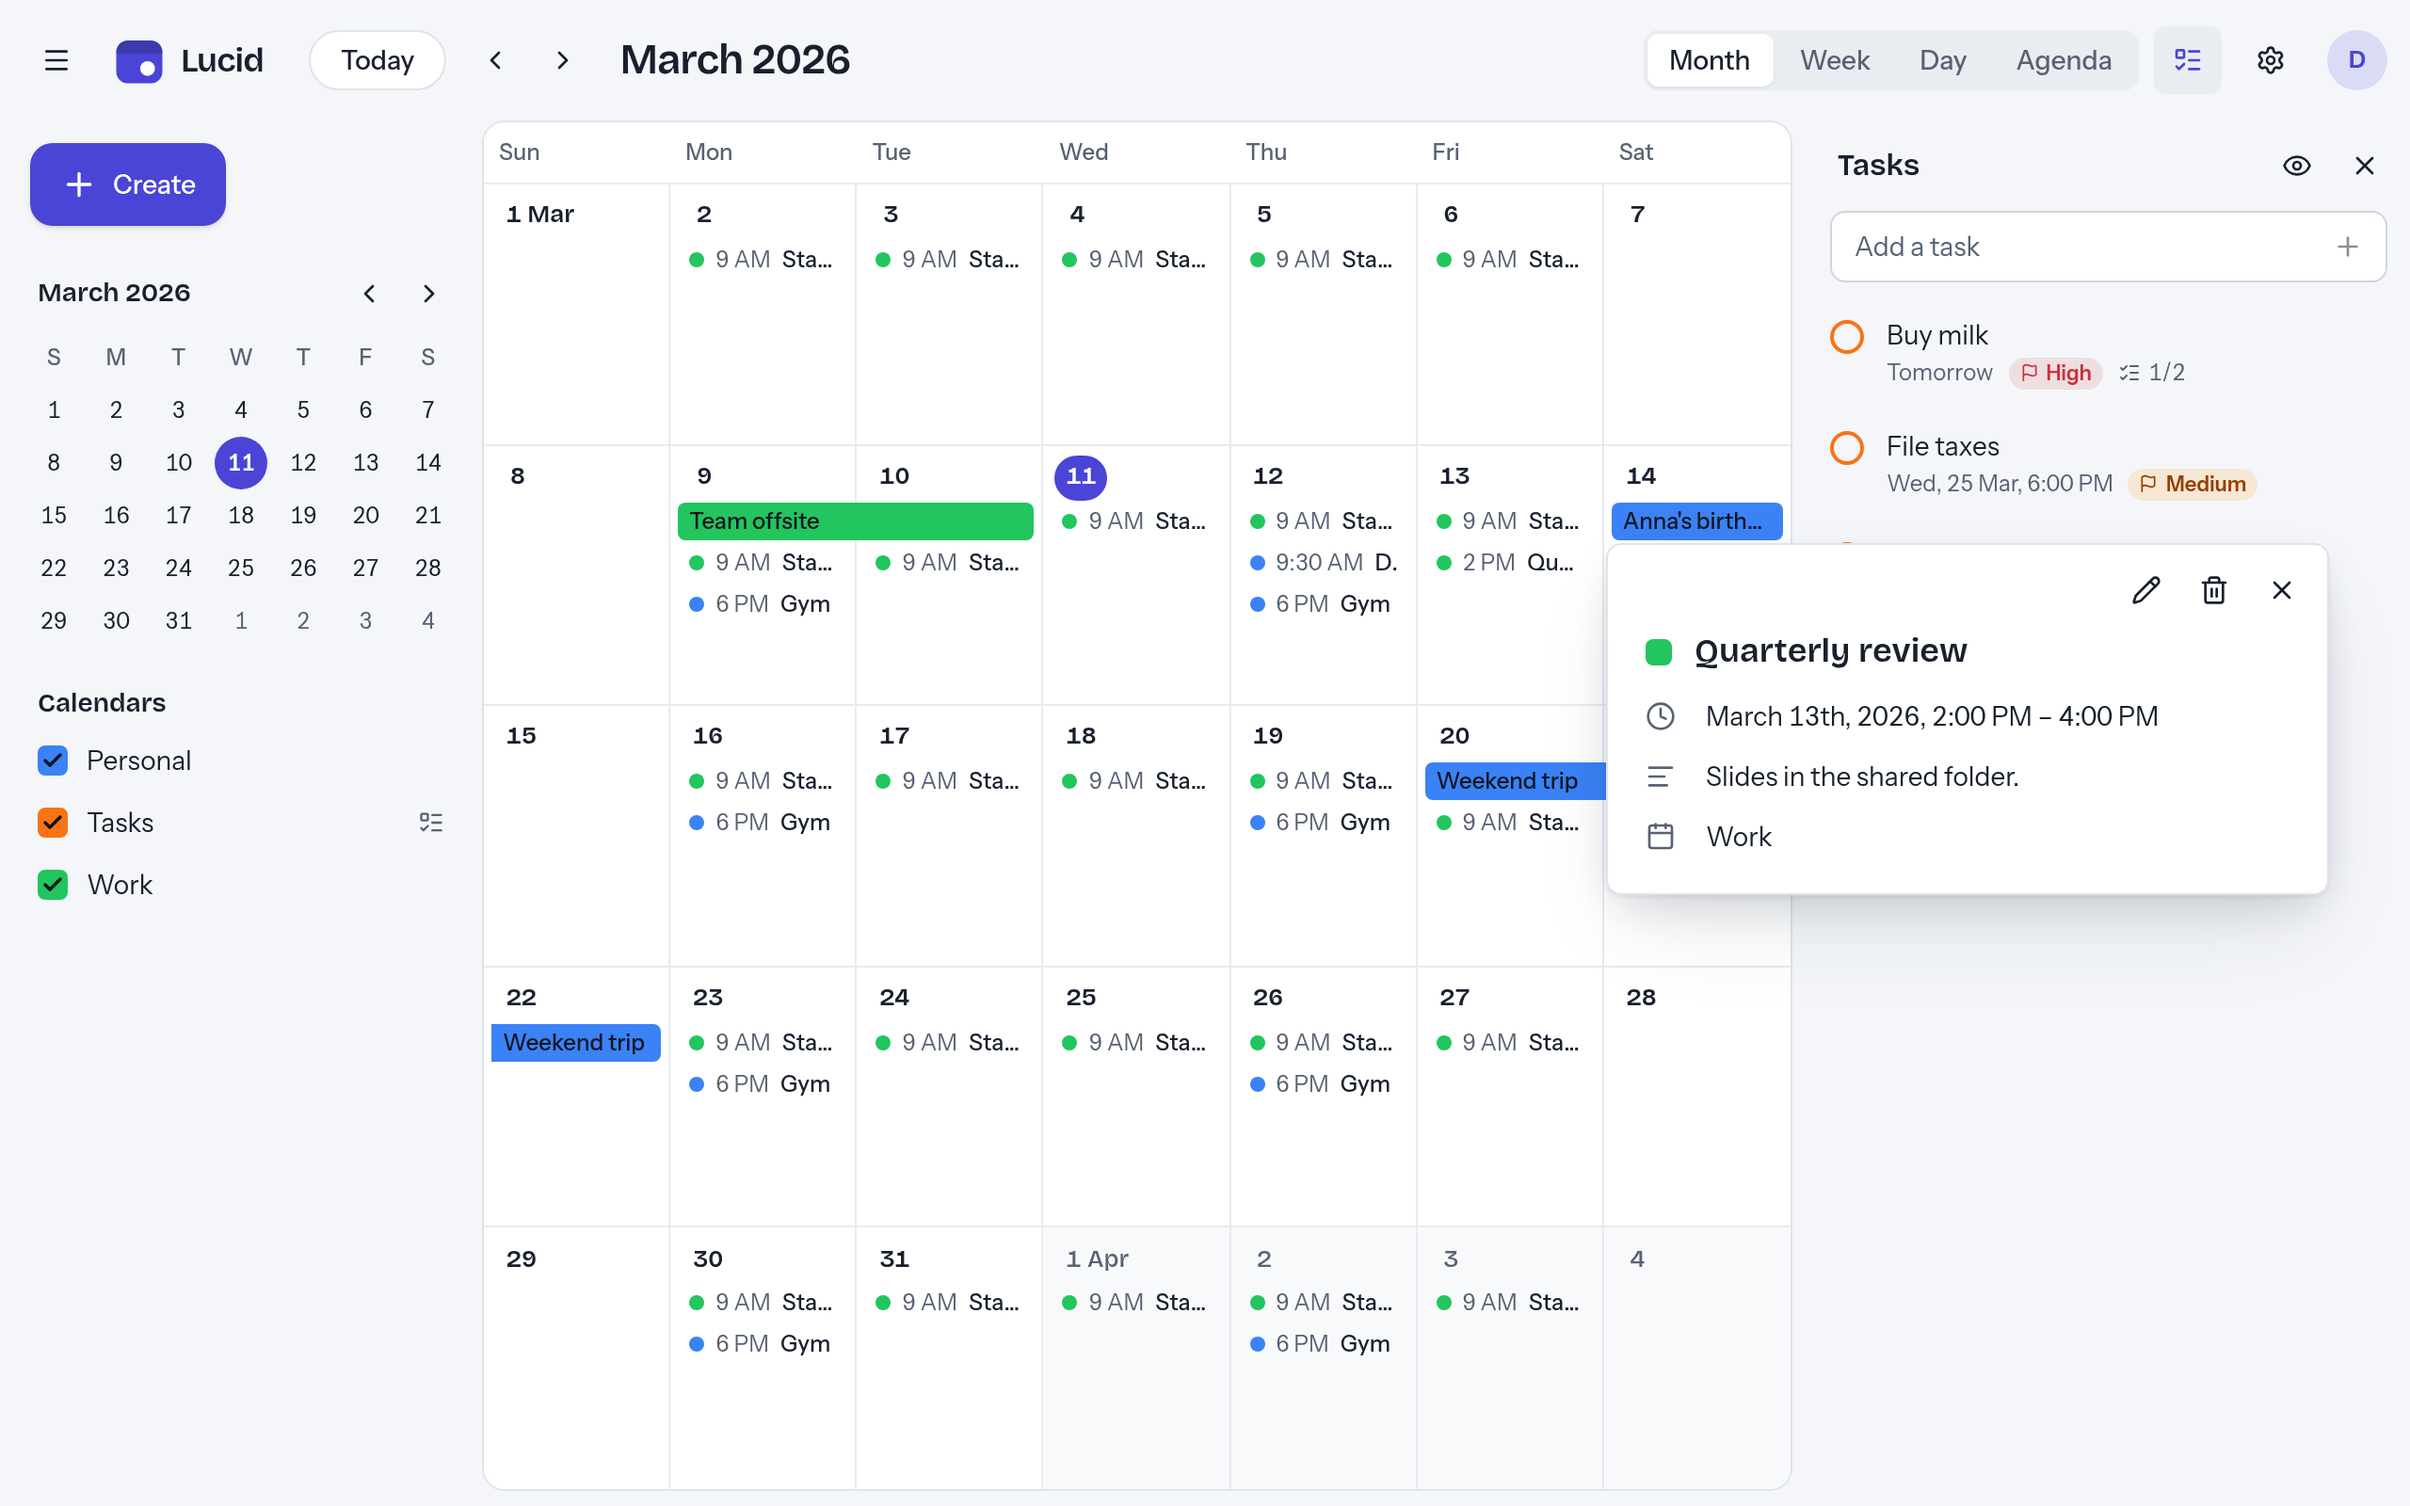
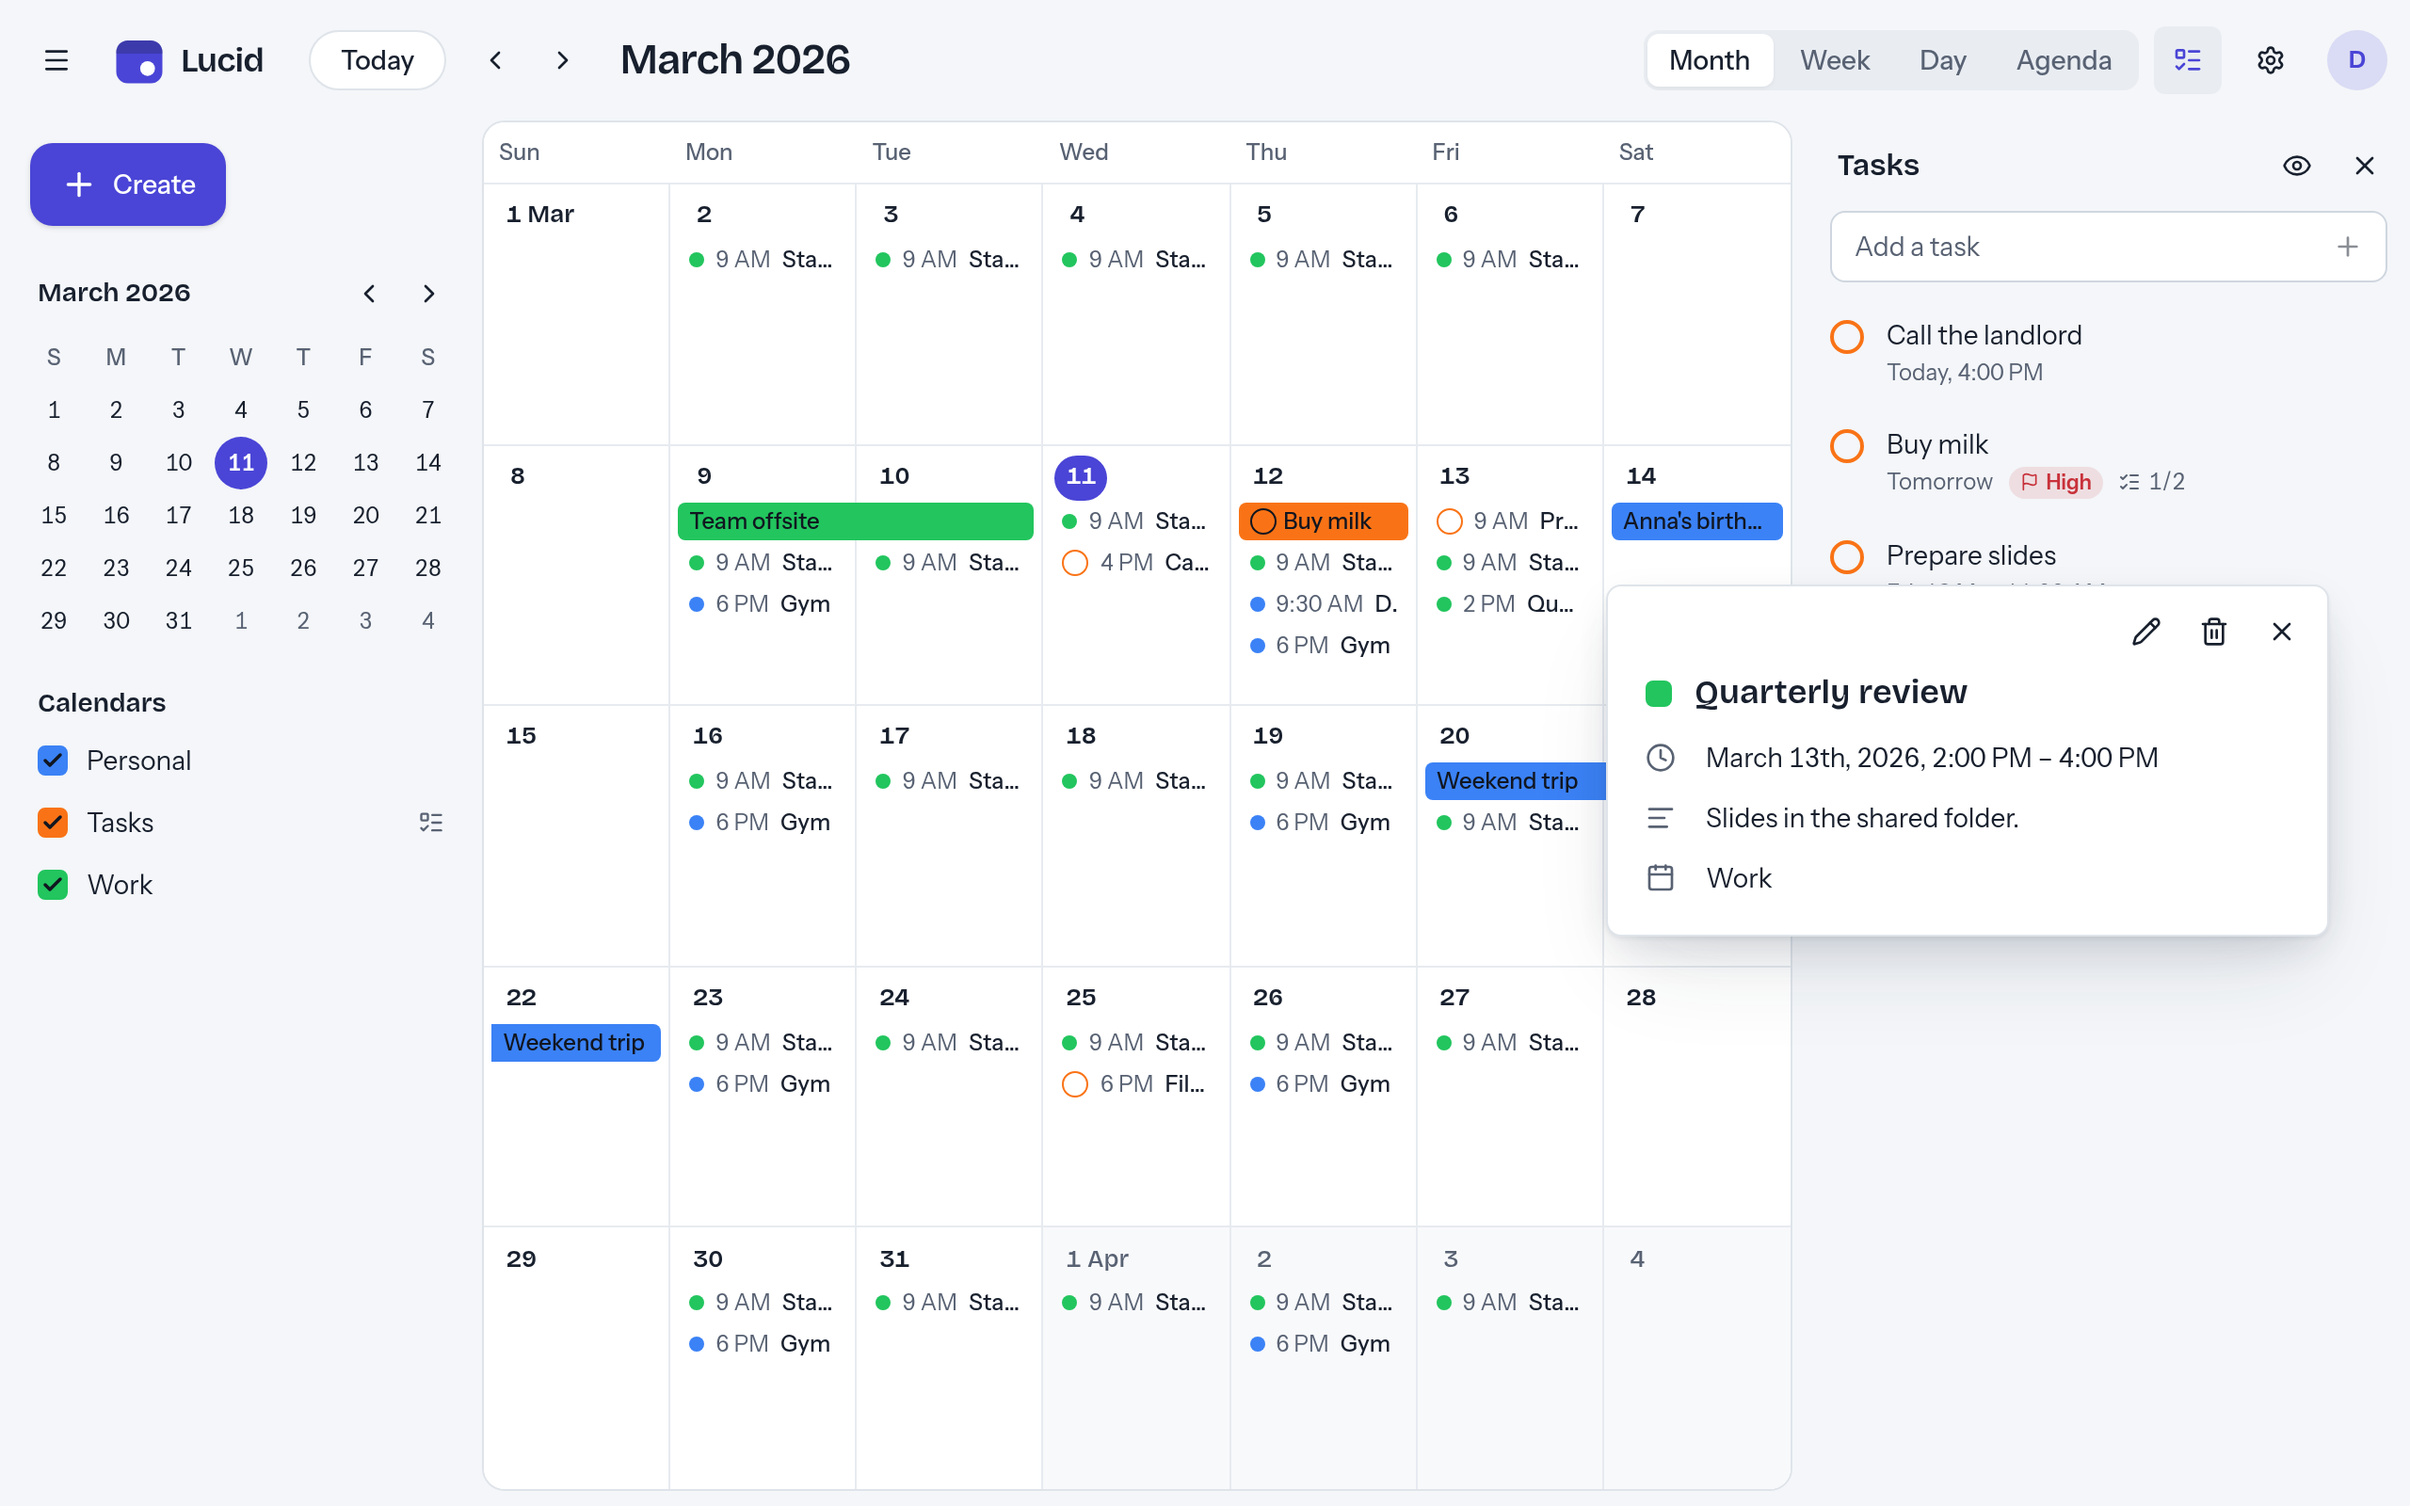
docs: show tasks in the calendar in the README

diff --git a/README.md b/README.md
@@ -39,9 +39,10 @@ of your server.
   show/hide toggle for every calendar.
 - **Drag & drop:** move and resize events right in the calendar; changes show
   up instantly.
-- **Tasks:** a task sidebar with checklists, due dates, priorities and
-  completion. Checklists are saved as plain Markdown task lines, so your other
-  apps can still read them.
+- **Tasks:** a task sidebar with checklists, start and due dates, priorities
+  and completion. Tasks with a date also appear in the calendar views, where
+  you can check them off. Checklists are saved as plain Markdown task lines, so
+  your other apps can still read them.
 - **Recurring events and time zones:** recurring series, all-day and timed
   events, always shown in your local time zone.
 - **Easy login:** enter just your domain; Lucid finds the CalDAV endpoint via
